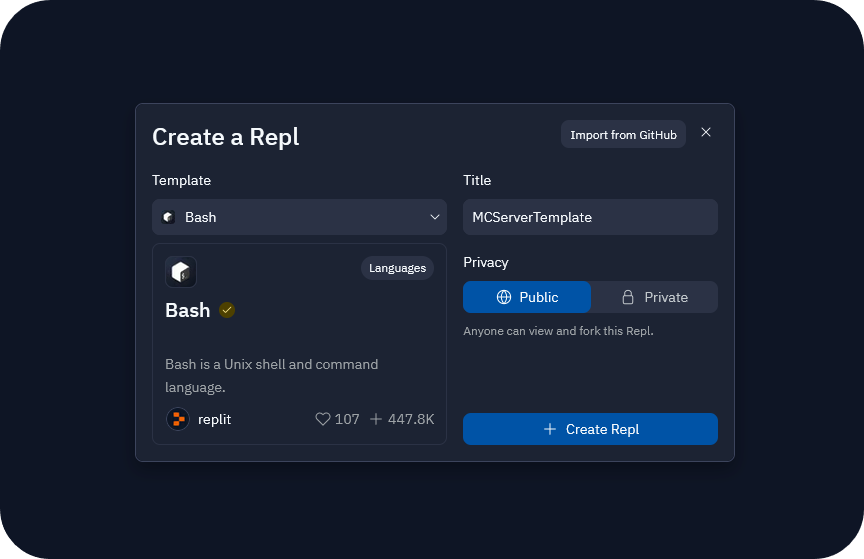
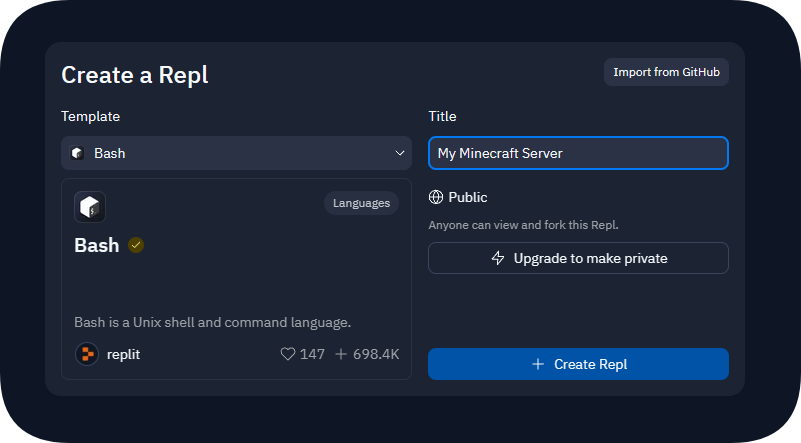
docs: Use new replit UI images

diff --git a/README.md b/README.md
@@ -44,7 +44,7 @@
 
 ## Setting Java Versions
 
-- In the files section on replit, click the three dots and click `Show hidden files`
+- In the files section on replit, click the three dots and hit `Show hidden files`
 
   <img src="projectInfo/replitHiddenFiles.png" width="350">
 
@@ -120,5 +120,4 @@
 
 ## Server Optimization
 
-- Boost your repl
 - Follow [this](https://github.com/YouHaveTrouble/minecraft-optimization) server optimization guide
